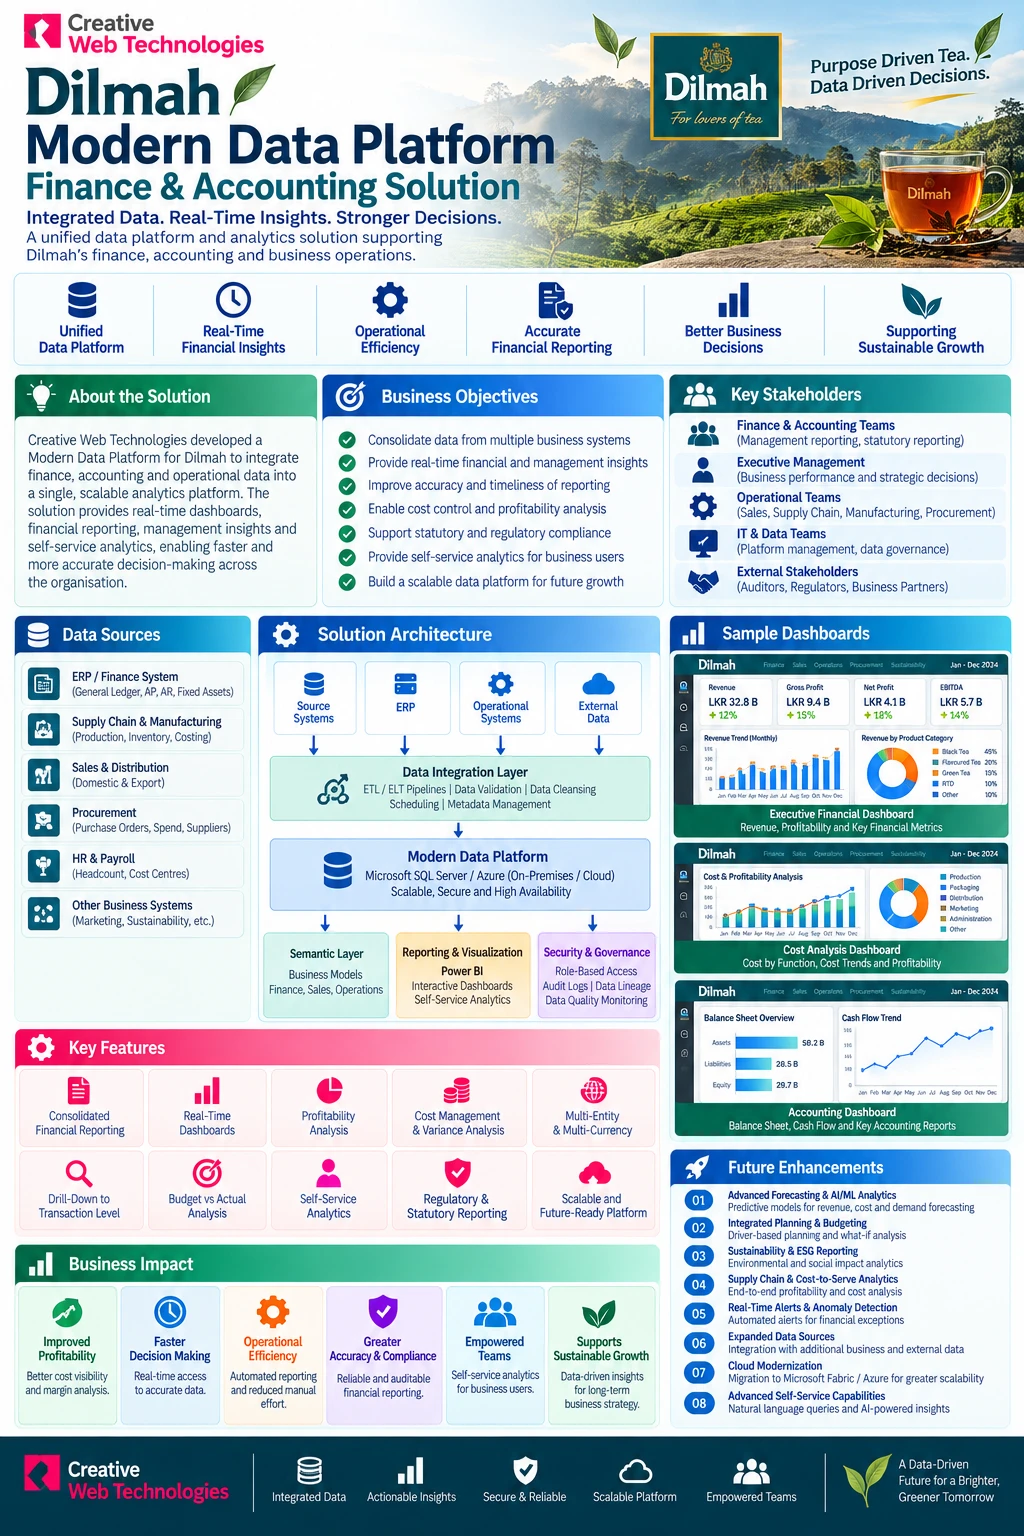
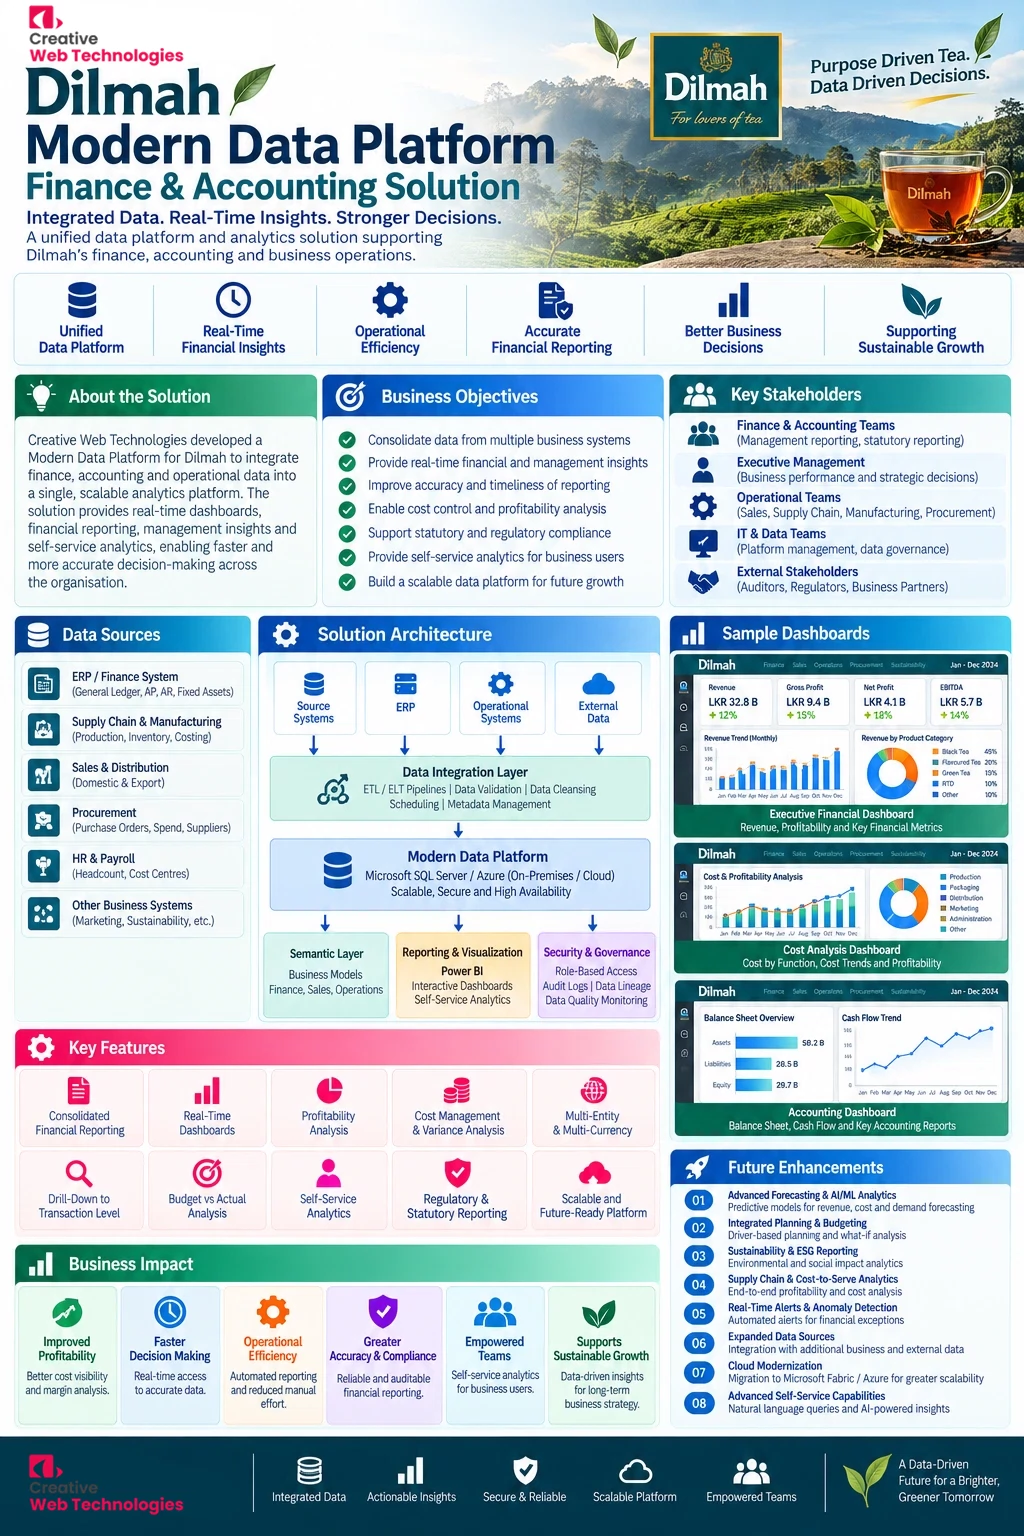
Update
Added "Customs solution" button and "Products" to the home page
Updated alot of infographics with correct logos

Changed region(s): [[0.0, 0.0, 0.25, 0.0625], [0.0, 0.9375, 0.2188, 1.0]]

diff --git a/src/components/Hero.tsx b/src/components/Hero.tsx
@@ -38,13 +38,27 @@ export default function Hero() {
           initial={{ opacity: 0 }}
           animate={{ opacity: 1 }}
           transition={{ delay: 0.8 }}
-          className="mt-10"
+          className="mt-10 flex flex-wrap items-center justify-center gap-3"
         >
+          <Link
+            to="/customs"
+            className="inline-flex items-center gap-2 rounded-full bg-navy px-6 py-3 text-sm font-semibold text-white transition-colors hover:bg-brand focus-visible:outline-2 focus-visible:outline-offset-2 focus-visible:outline-brand"
+          >
+            Customs Solutions
+            <span aria-hidden="true">→</span>
+          </Link>
           <Link
             to="/about"
             className="inline-flex items-center gap-2 rounded-full bg-navy px-6 py-3 text-sm font-semibold text-white transition-colors hover:bg-brand focus-visible:outline-2 focus-visible:outline-offset-2 focus-visible:outline-brand"
           >
             Explore CWT
+            <span aria-hidden="true">→</span>
+          </Link>
+          <Link
+            to="/products"
+            className="inline-flex items-center gap-2 rounded-full bg-navy px-6 py-3 text-sm font-semibold text-white transition-colors hover:bg-brand focus-visible:outline-2 focus-visible:outline-offset-2 focus-visible:outline-brand"
+          >
+            Customers
             <span aria-hidden="true">→</span>
           </Link>
         </motion.div>
